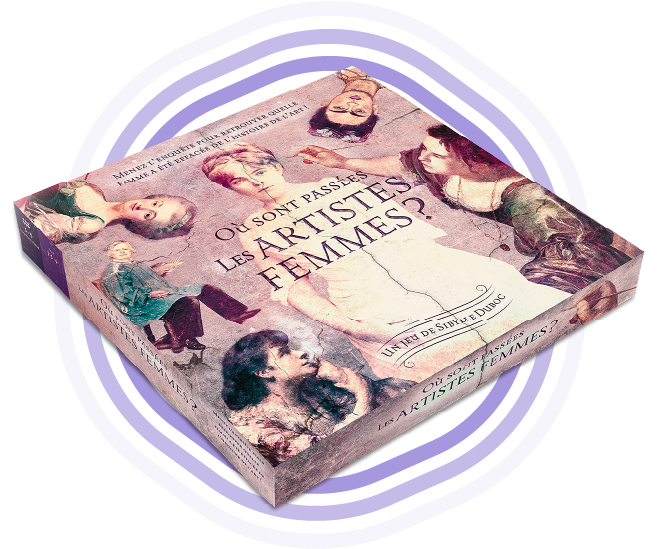
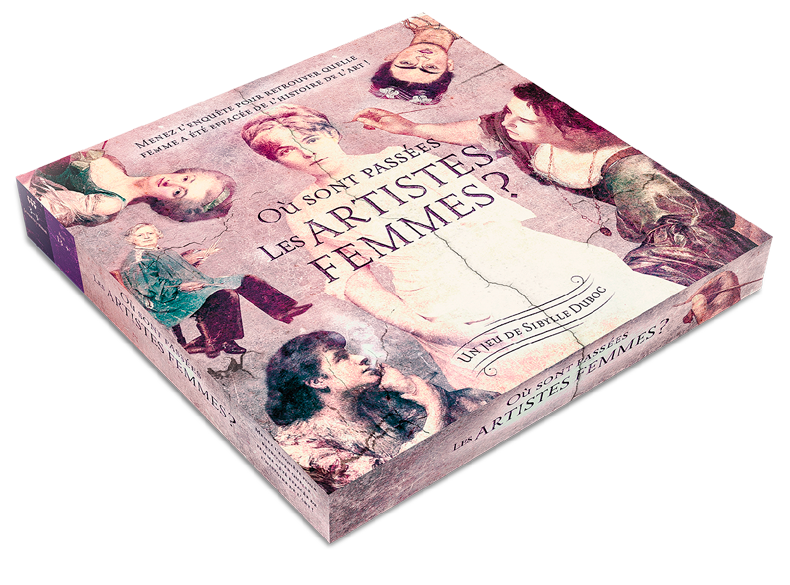
anim hexa

diff --git a/src/components/Home/Sections/Hero/Hero.scss b/src/components/Home/Sections/Hero/Hero.scss
@@ -51,16 +51,11 @@
         }
     
         &__img {
+            position: relative;
             min-width: 50rem;
+            height: 40rem;
             margin-right: -5rem;
             margin-top: 15vh;
-
-            img {
-                width: 100%;
-                height: 100%;
-                object-fit: contain;
-                object-position: center;
-            }
 
             @include respond-to(medium) {
                 margin-top: 0rem;
@@ -68,9 +63,51 @@
                 min-width: 30vw;
             }
 
+            @include respond-to(small) {
+                margin-top: 3rem;
+                height: inherit;
+            }
+
             @include respond-to(small-height) {
                 width: 81vh;
                 min-width: 33rem;
+            }
+
+            img {
+                position: relative;
+                z-index: 2;
+                width: 100%;
+                height: 100%;
+                object-fit: contain;
+                object-position: center;
+            }
+
+            .hexa-container {
+                top: 0;
+                position: absolute;
+                display: flex;
+                justify-content: center;
+                align-items: center;
+
+                width: 100%;
+                height: 100%;
+
+                .hexa {
+                    z-index: 1;
+                    position: absolute;
+                    top: -15px;
+                }
+
+                .hexa1 {
+                    transform: scale(0.9);
+                }
+                .hexa2 {
+                    transform: scale(1);
+                }
+
+                .hexa3 {
+                    transform: scale(1.1);
+                }
             }
         }
 

diff --git a/src/components/Home/Header/Header.jsx b/src/components/Home/Header/Header.jsx
@@ -17,15 +17,19 @@ function Header() {
     };
 
     useEffect(() => {
+        const isMobile = window.matchMedia("(max-width: 768px)").matches;
+
         if (open) {
             const scrollbarWidth = window.innerWidth - document.documentElement.clientWidth;
-            if (scrollbarWidth > 0) {
-                document.documentElement.style.setProperty('--scrollbar-width', `${scrollbarWidth}px`);
-            } else {
-                document.documentElement.style.setProperty('--scrollbar-width', `16px`); 
-            }
             document.querySelector("body").style.overflow = "hidden";
-            document.querySelector("body").style.paddingRight = `var(--scrollbar-width)`;
+            if (!isMobile) {
+                if (scrollbarWidth > 0) {
+                    document.documentElement.style.setProperty('--scrollbar-width', `${scrollbarWidth}px`);
+                } else {
+                    document.documentElement.style.setProperty('--scrollbar-width', `16px`); // Default value
+                }
+                document.querySelector("body").style.paddingRight = `var(--scrollbar-width)`;
+            }
         } else {
             document.documentElement.style.removeProperty('--scrollbar-width');
             document.querySelector("body").style.overflow = "";

diff --git a/src/assets/index.js b/src/assets/index.js
@@ -13,6 +13,16 @@ export { default as fb } from './icons/facebook-icon.png';
 export { default as insta } from './icons/instagram-icon.png';
 export { default as ulule } from './icons/ulule-icon.png';
 
+import hexa1 from './game-content/hexa/hexa1.png';
+import hexa2 from './game-content/hexa/hexa2.png';
+import hexa3 from './game-content/hexa/hexa3.png';
+
+const hexa = [
+    {id:"hexa1", alt: "Halo décoratif", src: hexa1},
+    {id:"hexa2", alt: "Halo décoratif", src: hexa2},
+    {id:"hexa3", alt: "Halo décoratif", src: hexa3},
+]
+
 import artiste1 from "./artists/osplaf-artiste1.png";
 import artiste2 from "./artists/osplaf-artiste2.png";
 import artiste3 from "./artists/osplaf-artiste3.png";
@@ -29,6 +39,4 @@ const artists = [
     {id:"frida", name: "Frida Kahlo", src: artiste6, date: "1593-1653"}
 ]
 
-
-
-export default artists;
+export { hexa, artists };

diff --git a/src/components/Home/Sections/Hero/Hexa.jsx b/src/components/Home/Sections/Hero/Hexa.jsx
@@ -1,0 +1,32 @@
+import { useEffect, useState } from "react";
+import { motion } from "framer-motion";
+import { hexa } from '../../../../assets/index';
+
+const duration = 4;
+
+function Hexa() {
+
+
+
+    return (
+        <div className="hexa-container">
+            {hexa.map((shape, i) => (
+                <motion.img
+                    key={shape.id}
+                    className={`hexa ${shape.id}`}
+                    src={shape.src}
+                    alt={shape.alt}
+                    animate={{opacity: [0, 1, 1, 0]}}
+                    transition={{
+                        ease: "linear",
+                        repeat: Infinity,
+                        repeatType: "loop",
+                        duration: 4,
+                    }}
+                />
+            ))}
+        </div>
+    );
+}
+
+export default Hexa;

diff --git a/src/components/Home/Sections/Hero/Hero.jsx b/src/components/Home/Sections/Hero/Hero.jsx
@@ -1,5 +1,4 @@
-import { useState } from 'react';
-import { NavLink } from 'react-router-dom';
+import Hexa from './Hexa';
 
 import BuyBtn from './BuyBtn';
 import './Hero.scss'
@@ -18,6 +17,7 @@ function Hero() {
                 
                 <div className="hero-content__img">
                     <img src={box} alt="Boîte du jeu" />
+                    <Hexa />
                 </div>
             </div>
         </section>

diff --git a/src/components/Home/Sections/LeJeu/LeJeu.jsx b/src/components/Home/Sections/LeJeu/LeJeu.jsx
@@ -3,7 +3,7 @@ import ContentSlider from '../../Sliders/ContentSlider';
 
 import './LeJeu.scss';
 
-import artists from '../../../../assets/index'
+import {artists} from '../../../../assets/index'
 import arrow1 from '../../../../assets/icons/osplaf-arrow1.png';
 import arrow2 from '../../../../assets/icons/osplaf-arrow2.png';
 import cards from '../../../../assets/game-content/osplaf-cartes.png';

diff --git a/index.html b/index.html
@@ -9,6 +9,5 @@
   <body>
     <div id="root"></div>
     <script type="module" src="/src/main.jsx"></script>
-    <!-- <script src="http://sdks.shopifycdn.com/buy-button/latest/buybutton.js"></script> -->
   </body>
 </html>
